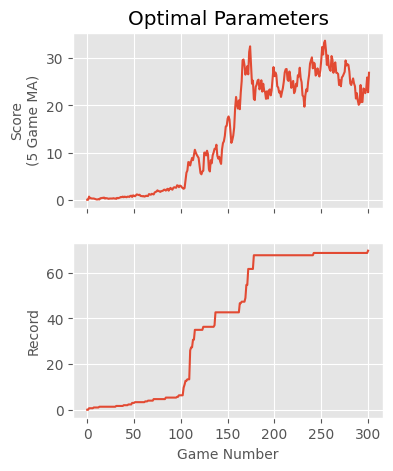
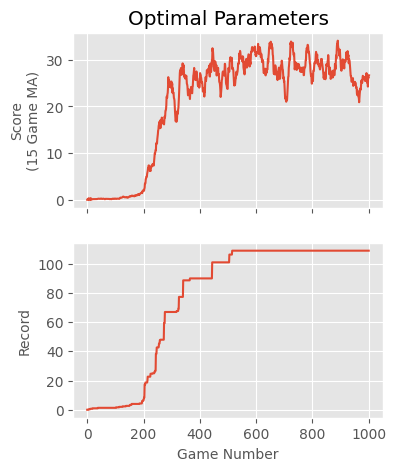
upload new optimal parameters graph

diff --git a/graphs/build_graphs.py b/graphs/build_graphs.py
@@ -48,21 +48,21 @@ if __name__ == "__main__":
    
    # Get score and record from txt files in specified folder
    score_0, rec_0 = get_score_and_record("default__1000_games_")
-   #score_1, rec_1 = get_score_and_record("optimal_lr__000005_eps__500_")
+   score_1, rec_1 = get_score_and_record("optimal_lr__000005_eps__200_")
    #score_2, rec_2 = get_score_and_record("folder2")
    #score_3, rec_3 = get_score_and_record("folder3__")
 
    windowSize = 15
 
    movingAverageList0 = moving_average(score_0, windowSize)
-   #movingAverageList1 = moving_average(score_1, windowSize)
+   movingAverageList1 = moving_average(score_1, windowSize)
    #movingAverageList2 = moving_average(score_2, windowSize)
    #movingAverageList3 = moving_average(score_3, windowSize)
 
    # Create a X by Y subplot, change X and Y if you change the # of subplots
    # figsize(12,5) for multi-plot... 
    # figsize(4,5) for one plot
-   fig, ax = plt.subplots(2, 1, sharex='col', sharey='row', figsize=(4,5))
+   fig, ax = plt.subplots(2, 2, sharex='col', sharey='row', figsize=(12,5))
 
    # Score plot, no longer being used
    #ax[0].plot(score)
@@ -75,28 +75,28 @@ if __name__ == "__main__":
    # Moving average plot
    # X O O
    # O O O
-   ax[0].plot(movingAverageList0)
-   ax[0].set_title('Default Parameters')
-   ax[0].set_ylabel("Score\n(%s Game MA)" % (str(windowSize)), fontsize=10)
+   ax[0][0].plot(movingAverageList0)
+   ax[0][0].set_title('Default Parameters')
+   ax[0][0].set_ylabel("Score\n(%s Game MA)" % (str(windowSize)), fontsize=10)
 
    # Record plot
    # O O O
    # X O O
-   ax[1].plot(rec_0)
-   ax[1].set_ylabel("Record", fontsize=10)
-   ax[1].set_xlabel("Game Number", fontsize=10)
+   ax[1][0].plot(rec_0)
+   ax[1][0].set_ylabel("Record", fontsize=10)
+   ax[1][0].set_xlabel("Game Number", fontsize=10)
 
    # Moving average plot
    # O X O
    # O O O
-   #ax[0][1].plot(movingAverageList1)
-   #ax[0][1].set_title('Optimal Parameters')
+   ax[0][1].plot(movingAverageList1)
+   ax[0][1].set_title('Optimal Parameters')
 
    # Record plot
    # O O O
    # O X O
-   #ax[1][1].plot(rec_1)
-   #ax[1][1].set_xlabel("Game Number", fontsize=10)
+   ax[1][1].plot(rec_1)
+   ax[1][1].set_xlabel("Game Number", fontsize=10)
 
    # Moving average plot
    # O O X
@@ -124,4 +124,4 @@ if __name__ == "__main__":
 
    plt.show()
    
-   fig.savefig('default_1000_games.png', bbox_inches="tight")
+   fig.savefig('default_vs_optimal_parameters.png', bbox_inches="tight")
